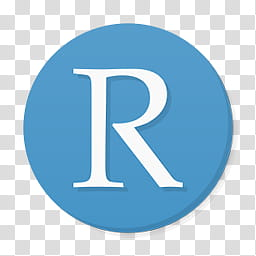
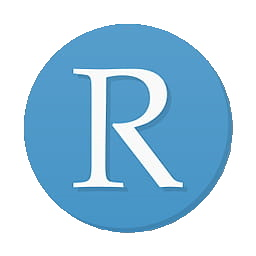
aa

Changed region(s): [[0.0, 0.0, 1.0, 1.0]]

diff --git a/_includes/about.html b/_includes/about.html
@@ -12,9 +12,9 @@
     </div>
     <div class="tech">
       <h2>Code</h2>
-      <img alt="Python" height="60" width="60" src="{{ "/assets/img/python.png" | prepend: site.baseurl }}" />
-      <img alt="R" height="60" width="60" src="{{ "/assets/img/r.jpg" | prepend: site.baseurl }}" />
-      <img alt="SQL" height="60" width="60" src="{{ "/assets/img/sql.png" | prepend: site.baseurl }}" />
+      <img alt="PYTHON" height="80" width="80" src="{{ "/assets/img/python.png" | prepend: site.baseurl }}" />
+      <img alt="SQL" height="80" width="80" src="{{ "/assets/img/sql.png" | prepend: site.baseurl }}" />
+      <img alt="R" height="80" width="80" src="{{ "/assets/img/r.jpg" | prepend: site.baseurl }}" />
       <p> Hello, this will be much more complete in the future, stay tuned!</p>
     </div>
     <div class="tech">
